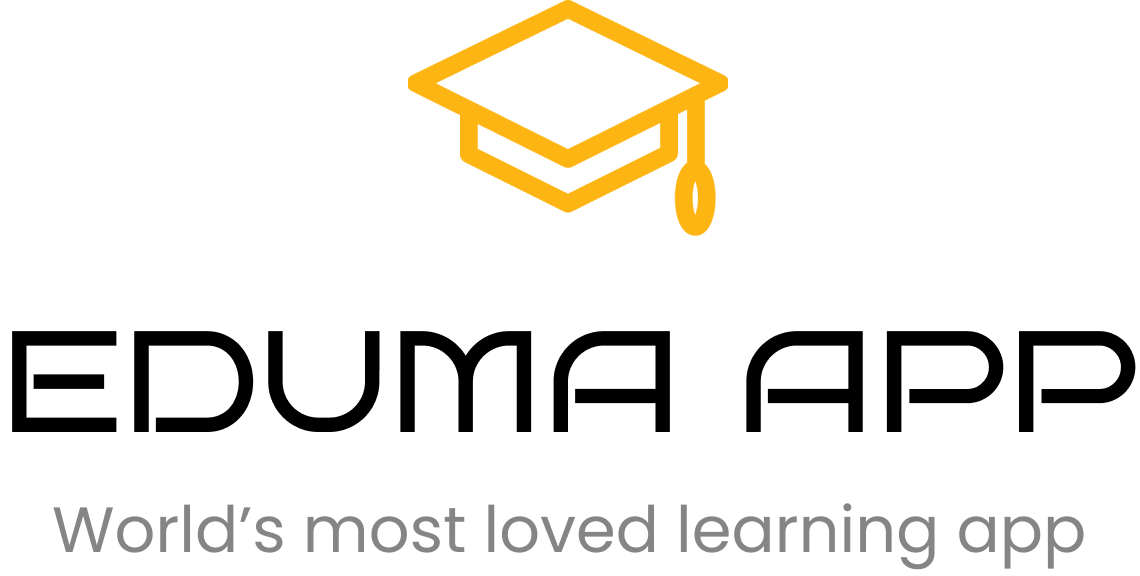
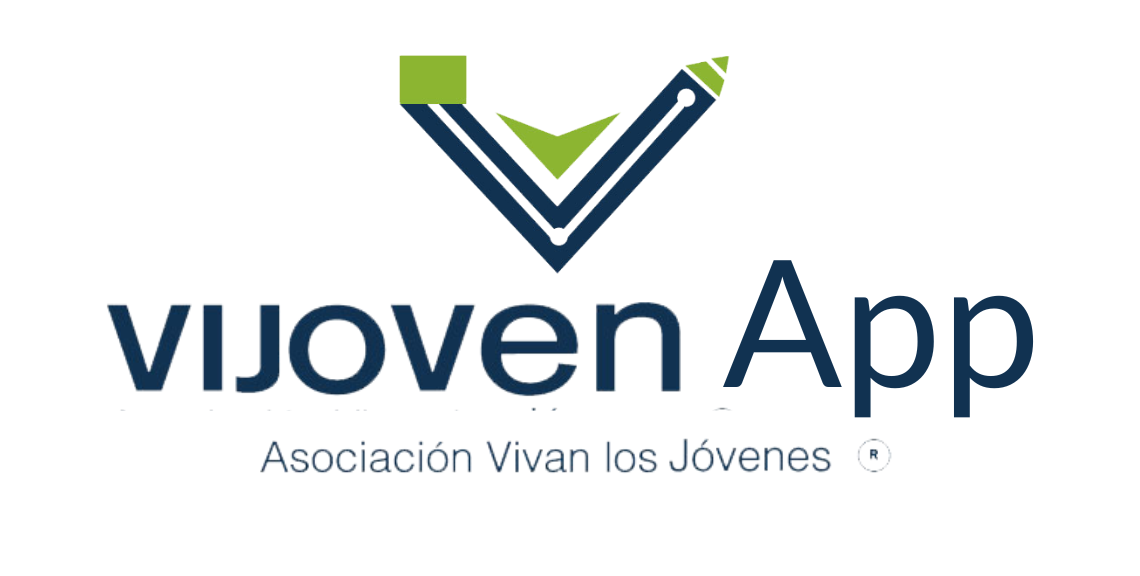
Descripción de los cambios realizados

Changed region(s): [[0.0, 0.4375, 1.0, 0.8438], [0.0307, 0.875, 0.9518, 1.0], [0.3377, 0.0, 0.6447, 0.4688]]

diff --git a/eduma-lms-app/src/config/translations/resources/es.js b/eduma-lms-app/src/config/translations/resources/es.js
@@ -1,0 +1,266 @@
+export default {
+  login: 'Login',
+  register: 'Registro',
+  logout: 'Logout',
+  lesson: 'Leccion',
+  course: 'Curso',
+  quiz: 'Quiz',
+  assignment: 'Asignación',
+  instructor: 'Instructor',
+  dataNotFound: 'Sin Datos',
+  needLogin: 'Necesita ingresar a su usuario',
+  free: 'FREE',
+  sale: 'SALE',
+  durations: 'Duración: ',
+  alert: {
+    logoutTxt: '¿Está seguro que desea salir?',
+    ok: 'OK',
+    cancel: 'Cancelar',
+    notLoggedIn: 'No ha ingresado sesión',
+    loggedIn: 'Por favor inicie sesión.',
+    btnLogin: 'Login',
+    restorePurchases: 'Restaurar compras',
+    restorePurchasesSuccess: 'Compras restauradas con éxito',
+  },
+  bottomNavigation: {
+    home: 'Home',
+    courses: 'Cursos',
+    myCourse: 'Mi Curso',
+    wishlist: 'Wishlist',
+    profile: 'Mi Perfil',
+  },
+  loginScreen: {
+    title: 'Acceda a su cuenta',
+    usernamePlaceholder: 'Usuario',
+    passwordPlaceholder: 'Password',
+    btnLogin: 'Acceder',
+    forgotPassword: 'Olvido su pasword',
+    registerText: '¿No tiene cuenta?',
+    register: 'Resgistrarse',
+    usernameEmpty: 'Usuario es requerido',
+    passwordEmpty: 'Password es requerido',
+    usernameNotCorrect: 'Usuario no es correcto',
+    passwordNotCorrect: 'Password no es correcto',
+    notFound: 'No encontrado',
+  },
+  registerScreen: {
+    title: 'Crear una cuenta',
+    usernamePlaceholder: 'Usuario',
+    emailPlaceholder: 'Email',
+    passwordPlaceholder: 'Password',
+    confirmPasswordPlaceholder: 'Confirmar password',
+    termAndCondition: 'Estoy de acuerdo con los terminos y condiciones',
+    btnSubmit: 'Registrarse',
+    usernameEmpty: 'Usuario es requerido',
+    emailEmpty: 'Email es requerido',
+    validEmail: 'Email no es valido',
+    passwordEmpty: 'Password es requerido',
+    confirmPasswordEmpty: 'Confirmación de password es requerido',
+    incorrectPassword: 'Confirmación de password incorrecto!',
+    termAndConditionEmpty: 'No ha aceptado terminos y condiciones',
+  },
+  home: {
+    overview: {
+      title: 'Resumen de su último curso',
+      section: 'Sección',
+      sections: 'Secciones',
+    },
+    category: 'Hola,¿Qué deseas aprender hoy?',
+    popular: 'Cursos Populares',
+    new: 'Nuevos Cursos',
+    countCourse: '{{count}} Cursos',
+    countStudent: '{{count}} Estudiantes',
+  },
+  courses: {
+    title: 'Cursos',
+    searching: 'Buscando {{keySearch}}',
+    filters: {
+      filter: 'Filtro',
+      default: 'Default',
+      title: 'Título',
+      sale: 'Sale',
+      popular: 'Popular',
+      newest: 'Recientes',
+      oldest: 'Antiguos',
+    },
+  },
+  searchScreen: {
+    placeholder: 'Buscar..',
+    title: 'Busquedas Recientes',
+  },
+  myCourse: {
+    title: 'Mi Curso',
+    filters: {
+      filter: 'Filtro',
+      all: 'Todo',
+      passed: 'Aprobado',
+      inProgress: 'En progreso',
+      failed: 'No aprobado',
+    },
+  },
+  wishlist: {
+    title: 'My Wishlist',
+  },
+  profile: {
+    title: 'Perfil',
+  },
+  settings: {
+    title: 'Ajustes',
+    general: 'General',
+    password: 'Password',
+    deleteAccount: 'Borrar cuenta',
+    upload: 'Subir',
+    bio: 'Biografía',
+    firstName: 'Primer Nivel',
+    lastName: 'Apellido',
+    nickName: 'Alias',
+    save: 'Salvar cambios',
+    currentPassword: 'Password actual',
+    newPassword: 'Nuevo Password',
+    confirmNewPassword: 'Confirmar nuevo Password',
+    deleteAccountTitle:
+      '¿Esta seguro de eliminar está cuenta? Por favor lea como funciona las cuentas eliminadas después de la eliminación.',
+    deleteAccountTitle2: 'Cuenta',
+    deleteAccountContent:
+      'Su cuenta será eliminada de nuestra base de datos. Todos los cursos serán eliminados.',
+    deleteAccountContent2: 'Por favor ingrese su contraseña:',
+    deleteAccountBtn: 'Borrar',
+  },
+  myOrders: {
+    title: 'Mi orden',
+    order: 'Orden',
+    date: 'Fecha',
+    status: 'Status',
+    total: 'Total',
+  },
+  instructorScreen: {
+    title: 'Instructor',
+    countCourse: '{{count}} cursos',
+    countStudent: '{{count}} estudiantes',
+  },
+  singleCourse: {
+    title: 'Curso',
+    overview: 'Resumen',
+    curriculum: 'Curriculum',
+    curriculumEmpty: 'Curriculum Vacio',
+    instructor: 'Instructor',
+    review: 'Review',
+    rating: '{{total}} rating',
+    leaveAReview: 'Deje un Review',
+    leaveAReviewDescription:
+      'Proporcione tantos detalles como pueda para justificar su calificación y ayudar a otros.',
+    reviewTitle: 'Título',
+    reviewTitleEmpty: 'Por favor ingrese un título a su calificación',
+    reviewContentEmpty: 'Por favor ingrese calificación',
+    reviewRating: 'Rating',
+    reviewContent: 'Contenido',
+    reviewSubmit: 'Subir',
+    btnContinue: 'Continuar',
+    btnStartNow: 'Empezar',
+    btnAddToCart: 'Agregar a carrito',
+    btnRestore: 'Restaurar',
+    btnRetake: 'Retomar',
+    retakeNotice: 'Retomar exitoso',
+    passed: 'Aprobado',
+    failed: 'No Aprobado',
+    finished: 'Finalizado',
+    average: 'Avance:',
+    purchaseNotCompleted:
+      'Tu compra no ha sido completada, por favor inténtalo de nuevo más tarde',
+    restoreCourseNotPurchase: 'No puedes restaurar este curso',
+  },
+  forgot: {
+    title: 'Olvido su contraseña',
+    description:
+      'Por favor, introduzca su email. Recibirá un código para crear un nuevo password por email',
+    emailPlaceholder: 'Su email',
+    btnSubmit: 'Reset password',
+  },
+  learningScreen: {
+    finishCourse: 'Terminar Curso',
+    finishCourseAlert: {
+      title: 'Terminar Curso',
+      description: '¿Estás seguro de que quieres terminar este curso?',
+      cancel: 'Cancel',
+      ok: 'OK',
+    },
+    lesson: {
+      btnComplete: 'Completado',
+      alert: {
+        title: 'Completado',
+        ok: 'OK',
+      },
+    },
+    quiz: {
+      questionCount: 'Preguntas: {{count}}',
+      passingGrade: 'Nota Aprobatoria: {{grade}}%',
+      btnStart: 'Empezar',
+      result: {
+        title: 'Su resultado',
+        failed:
+          'Resultado insatisfactorio. El resultado es {{result}}% (el requisito es {{grade}})',
+        questions: 'Preguntas',
+        correct: 'Correcto',
+        wrong: 'Incorrecto',
+        skipped: 'Saltar',
+        points: 'Puntos',
+        timespent: 'Tiempo utilizado',
+        btnRetake: 'Retomar ({{count}})',
+        btnRetakeUnlimited: 'Ilimitado',
+        btnReview: 'Review',
+      },
+      timeRemaining: 'restante',
+      correct: 'Correcto',
+      inCorrect: 'Incorrecto',
+      point: '{{point}} Punto',
+      explanation: 'Explicación',
+      btnCheck: 'Chequear respuesta',
+      checkAlert: 'Por favor responda primero',
+      questionAnswered: 'Pregunta respondida',
+      btnFinish: 'Finalizar',
+      nextQuestion:
+        'Has respondido a todas tus preguntas. Puede revisar o presionar el botón Finalizar.',
+      hint: 'Pista',
+      hintEmpty: 'La pista está vacia',
+    },
+    assignment: {
+      title: 'Asignación',
+      acceptAllowed: 'Intentos permitidos',
+      durations: 'Duración ',
+      passingGrade: 'Nota Mínima',
+      point: '{{point}} puntos(s)',
+      start: 'Empezar',
+      timeRemaining: 'Tiempo restante',
+      overview: 'Descripción:',
+      contentTitle: '¿Por qué lo usamos?',
+      attachmentFile: 'Archivos adjuntos:',
+      answer: 'Respuesta:',
+      chooseFile: 'Escoger archivo',
+      nofile: 'No ha seleccionado archivo',
+      chooseFileDescription:
+        '(Cantidad máxima de archivos que puede cargar más: {{files_amount}}. Y permitir subir solo estos tipos: {{allow_file_type}})',
+      save: 'SALVAR',
+      send: 'ENVIAR',
+      yourResult: 'Sus resultados:',
+      attachments: 'Archivos adjuntos:',
+      missingAttachment: 'Adjunto faltante',
+      missingAttachments: 'Adjunto faltante',
+      yourAnswer: 'Su respuesta:',
+      yourUploadedFiles: 'Sus archivos adjuntos:',
+      instructorMessage: 'Mensaje del instructor:',
+      references: 'Referencia:',
+      resultPassed: 'Aprobado',
+      resultFailed: 'No Aprobado',
+      btnRetake: 'Retomar ({{count}})',
+      deleteFileTitle: 'Borrar archivo',
+      deleteFileMessage: '¿Esta seguro que desea eliminar el archivo?',
+      cancel: 'Cancel',
+      ok: 'OK',
+    },
+  },
+  notification: {
+    title: 'Notificación',
+    empty: 'No notifications',
+    error: 'Error al recibir notificaciones',
+  },
+};

diff --git a/eduma-lms-app/src/config/index.js b/eduma-lms-app/src/config/index.js
@@ -1,9 +1,9 @@
 // Site URL
-const SITE_URL = 'https://test.thimpress.com';
+const SITE_URL = 'https://campus.vivanlosjovenes.edu.gt';
 
 // PRODUCTS_IAP moved to setup in the LearnPress Settings > Mobile App > Courses In App Purchases
 
-const COPYRIGHTS = 'Eduma app 2022. All rights reserved';
+const COPYRIGHTS = 'Vijoven app 2022. All rights reserved';
 
 const CODE_PUSH = {
   ios: '',

diff --git a/eduma-lms-app/src/config/translations/index.js b/eduma-lms-app/src/config/translations/index.js
@@ -2,7 +2,7 @@ import i18n from 'i18next';
 import { initReactI18next } from 'react-i18next';
 import * as resources from './resources';
 
-const DEFAULT_LANGUAGE = 'en';
+const DEFAULT_LANGUAGE = 'es';
 
 i18n.use(initReactI18next).init({
   compatibilityJSON: 'v3',

diff --git a/eduma-lms-app/src/config/translations/resources/index.js b/eduma-lms-app/src/config/translations/resources/index.js
@@ -1,1 +1,2 @@
+export { default as es } from './es';
 export { default as en } from './en';
